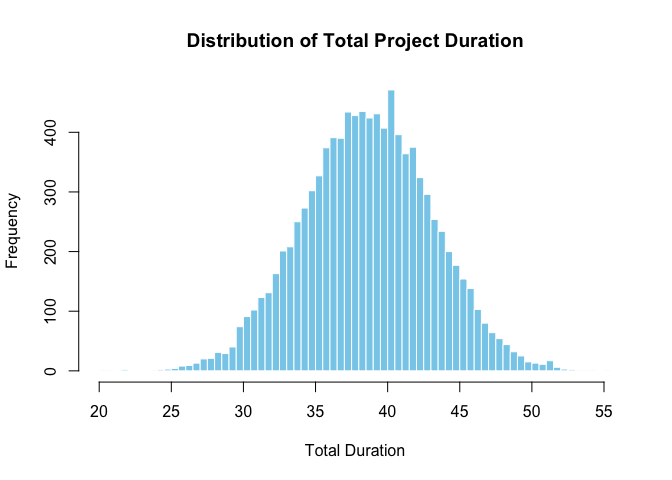
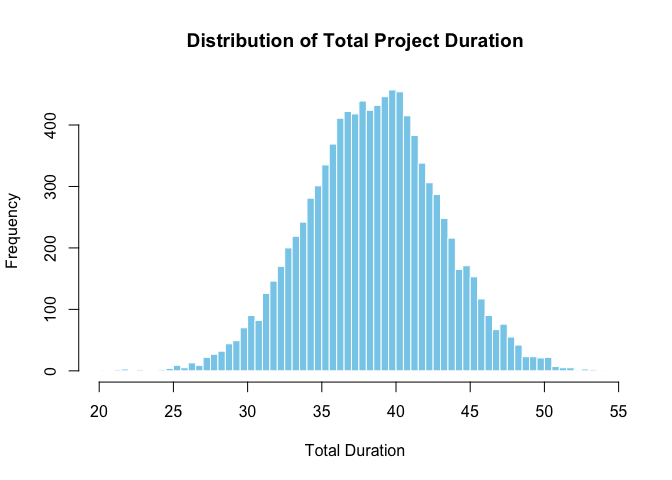
Add tests

diff --git a/README.md b/README.md
@@ -47,12 +47,12 @@ correlation_matrix <- matrix(c(
 
 results <- mcs(num_simulations, task_distributions, correlation_matrix)
 cat("Mean Total Duration:", results$total_mean, "\n")
-#> Mean Total Duration: 38.61906
+#> Mean Total Duration: 38.47304
 ```
 
 ``` r
 cat("Variance of Total Duration:", results$total_variance, "\n")
-#> Variance of Total Duration: 19.95962
+#> Variance of Total Duration: 19.73083
 ```
 
 ``` r
@@ -61,6 +61,12 @@ hist(results$total_distribution, breaks = 50, main = "Distribution of Total Proj
 ```
 
 <img src="man/figures/README-example-1.png" width="100%" />
+
+## More Resources
+
+Much of this package is based on the book [Data Analysis for Engineering
+and Project Risk Managment](https://a.co/d/0gns3EX1) by Ivan Damnjanovic
+and Ken Reinschmidt and comes highly recommended.
 
 ## Code of Conduct
 
